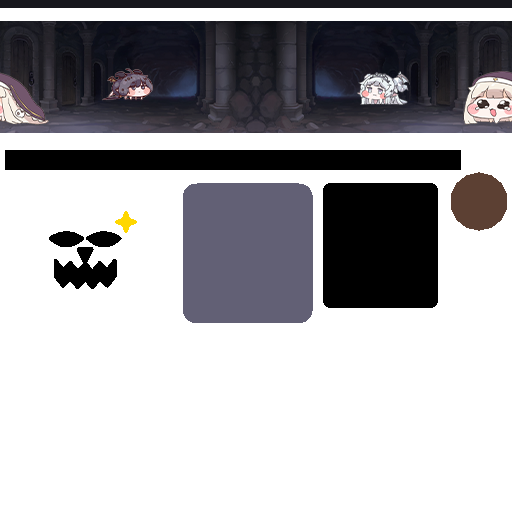
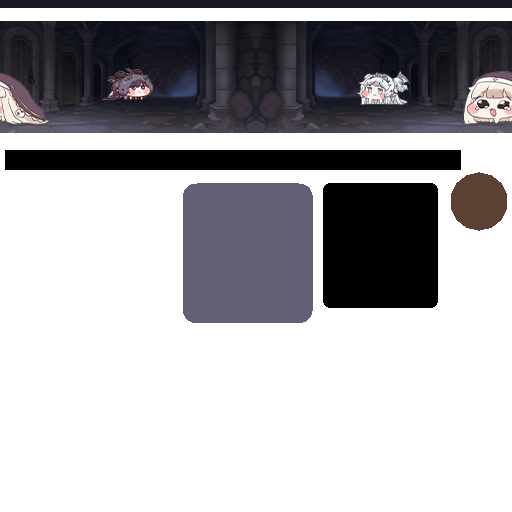
test

Changed region(s): [[0.0938, 0.4062, 0.2812, 0.5625]]

diff --git a/SpeakiMod.js b/SpeakiMod.js
@@ -16559,6 +16559,7 @@ function spkmodStartCartAnimation(frames, skinKey) {
 
 	ctx.clearRect(0, 0, width, height);
 	ctx.drawImage(frames[0].bitmap, 0, 0, width, height);
+	ctx.clearRect(0, Math.floor(170 * (height / 512)), Math.ceil(180 * (width / 512)), Math.ceil(150 * (height / 512)));
 	spkmodApplyPumpkinCartTextureToScene(true, _spkmodCartAnimCanvas);
 
 	if (frames.length <= 1) return;
@@ -16573,6 +16574,7 @@ function spkmodStartCartAnimation(frames, skinKey) {
 		const curFrame = _spkmodCartAnimFrames[_spkmodCartAnimCurrentIndex];
 		ctx.clearRect(0, 0, width, height);
 		ctx.drawImage(curFrame.bitmap, 0, 0, width, height);
+		ctx.clearRect(0, Math.floor(170 * (height / 512)), Math.ceil(180 * (width / 512)), Math.ceil(150 * (height / 512)));
 
 		if (typeof gameState !== "undefined" && gameState && gameState.scene) {
 			gameState.scene.traverse(child => {
@@ -16675,15 +16677,26 @@ function spkmodEnsurePumpkinCartHooks() {
 function spkmodGetCartSkinImage(skinKey, callback) {
 	const skin = SPKMOD_PUMPKIN_CART_SKINS[skinKey];
 	if (!skin) return;
-	if (_spkmodCartImages[skinKey] && _spkmodCartImages[skinKey].complete) {
+	if (_spkmodCartImages[skinKey]) {
 		callback(_spkmodCartImages[skinKey]);
 		return;
 	}
 	const img = new Image();
 	img.crossOrigin = "anonymous";
 	img.onload = () => {
-		_spkmodCartImages[skinKey] = img;
-		callback(img);
+		const canvas = document.createElement("canvas");
+		const w = img.naturalWidth || img.width || 512;
+		const h = img.naturalHeight || img.height || 512;
+		canvas.width = w;
+		canvas.height = h;
+		const ctx = canvas.getContext("2d");
+		ctx.drawImage(img, 0, 0, w, h);
+		// Clear pumpkin face cutout region (x: 0..180, y: 170..320 on 512x512)
+		const scaleX = w / 512;
+		const scaleY = h / 512;
+		ctx.clearRect(0, Math.floor(170 * scaleY), Math.ceil(180 * scaleX), Math.ceil(150 * scaleY));
+		_spkmodCartImages[skinKey] = canvas;
+		callback(canvas);
 	};
 	img.src = skin.url;
 }

diff --git a/modules/10_cooking_prop_anims.js b/modules/10_cooking_prop_anims.js
@@ -94,6 +94,7 @@ function spkmodStartCartAnimation(frames, skinKey) {
 
 	ctx.clearRect(0, 0, width, height);
 	ctx.drawImage(frames[0].bitmap, 0, 0, width, height);
+	ctx.clearRect(0, Math.floor(170 * (height / 512)), Math.ceil(180 * (width / 512)), Math.ceil(150 * (height / 512)));
 	spkmodApplyPumpkinCartTextureToScene(true, _spkmodCartAnimCanvas);
 
 	if (frames.length <= 1) return;
@@ -108,6 +109,7 @@ function spkmodStartCartAnimation(frames, skinKey) {
 		const curFrame = _spkmodCartAnimFrames[_spkmodCartAnimCurrentIndex];
 		ctx.clearRect(0, 0, width, height);
 		ctx.drawImage(curFrame.bitmap, 0, 0, width, height);
+		ctx.clearRect(0, Math.floor(170 * (height / 512)), Math.ceil(180 * (width / 512)), Math.ceil(150 * (height / 512)));
 
 		if (typeof gameState !== "undefined" && gameState && gameState.scene) {
 			gameState.scene.traverse(child => {
@@ -210,15 +212,26 @@ function spkmodEnsurePumpkinCartHooks() {
 function spkmodGetCartSkinImage(skinKey, callback) {
 	const skin = SPKMOD_PUMPKIN_CART_SKINS[skinKey];
 	if (!skin) return;
-	if (_spkmodCartImages[skinKey] && _spkmodCartImages[skinKey].complete) {
+	if (_spkmodCartImages[skinKey]) {
 		callback(_spkmodCartImages[skinKey]);
 		return;
 	}
 	const img = new Image();
 	img.crossOrigin = "anonymous";
 	img.onload = () => {
-		_spkmodCartImages[skinKey] = img;
-		callback(img);
+		const canvas = document.createElement("canvas");
+		const w = img.naturalWidth || img.width || 512;
+		const h = img.naturalHeight || img.height || 512;
+		canvas.width = w;
+		canvas.height = h;
+		const ctx = canvas.getContext("2d");
+		ctx.drawImage(img, 0, 0, w, h);
+		// Clear pumpkin face cutout region (x: 0..180, y: 170..320 on 512x512)
+		const scaleX = w / 512;
+		const scaleY = h / 512;
+		ctx.clearRect(0, Math.floor(170 * scaleY), Math.ceil(180 * scaleX), Math.ceil(150 * scaleY));
+		_spkmodCartImages[skinKey] = canvas;
+		callback(canvas);
 	};
 	img.src = skin.url;
 }
